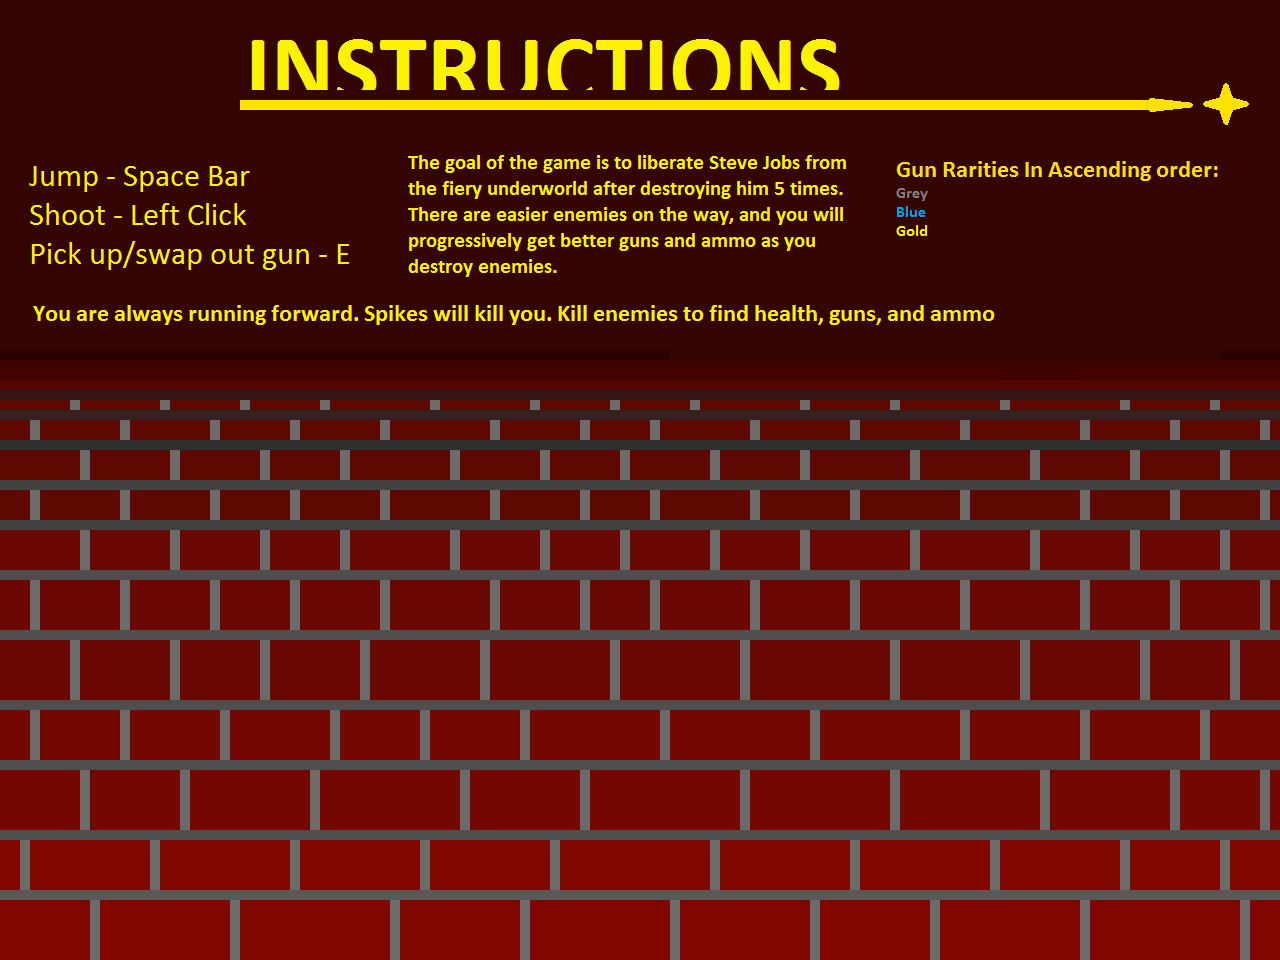
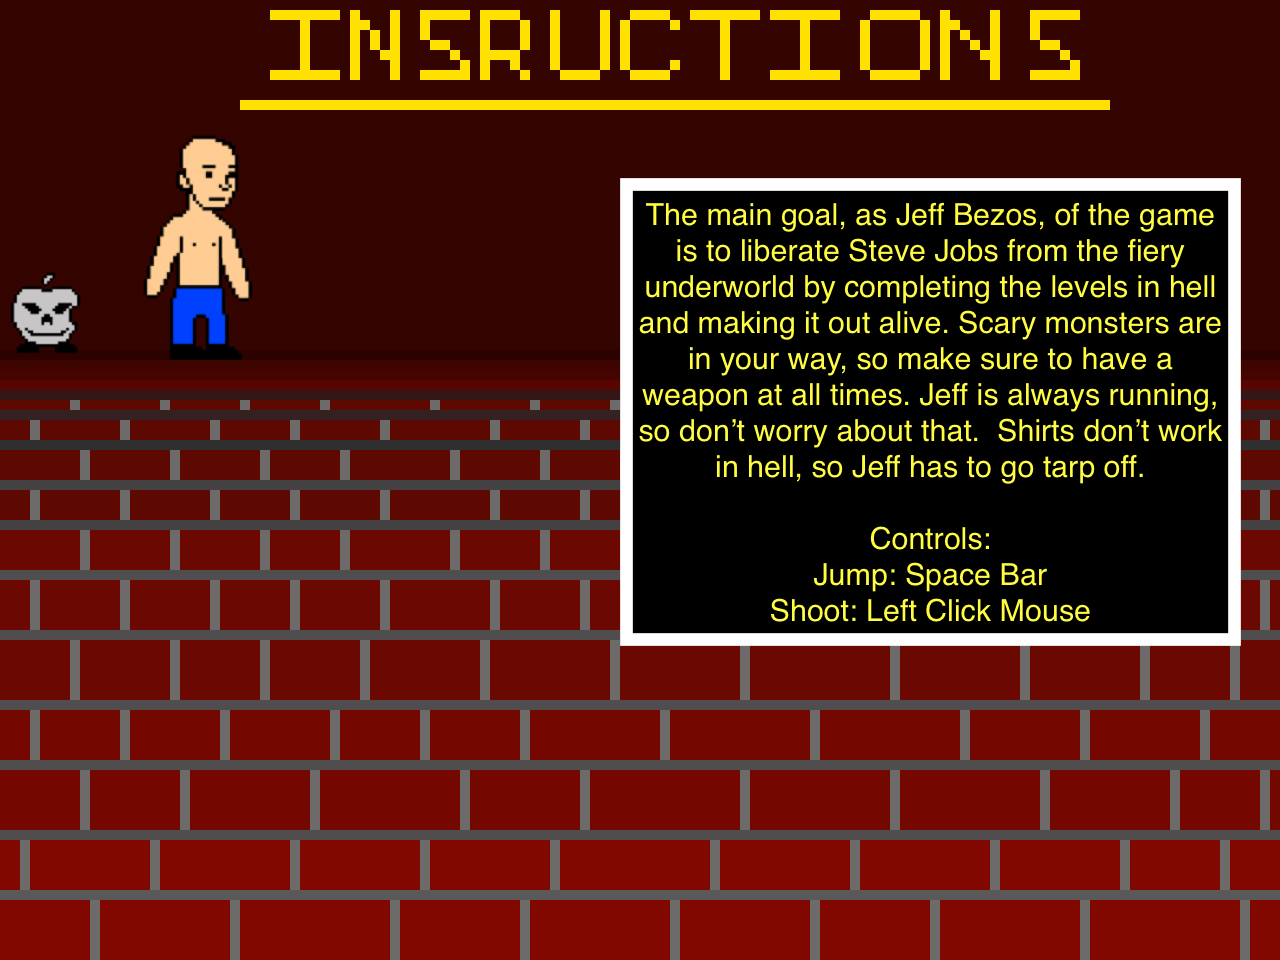
added game over screen, attempted instructions

Changed region(s): [[0.0, 0.125, 0.9688, 0.6875], [0.1875, 0.0, 0.8438, 0.0938], [0.875, 0.0938, 0.9688, 0.125]]

diff --git a/Screens.java b/Screens.java
@@ -46,11 +46,13 @@ public class Screens extends Canvas implements Runnable, MouseListener, KeyListe
    private static JFrame frame;
    private JPanel PlayPanel;
    private JPanel InstructionPanel;
+   private JPanel Panel;
    private BufferStrategy bs;
    private Graphics g;
    private Graphics2D g2d;
    private Texture texture;
    private Texture background;
+   private Texture gameover;
    private static Screens INSTANCE; 
    private int mouseX= MouseInfo.getPointerInfo().getLocation().x;
    private int mouseY= MouseInfo.getPointerInfo().getLocation().y;
@@ -109,6 +111,7 @@ public class Screens extends Canvas implements Runnable, MouseListener, KeyListe
       
       texture = new Texture("sniper blue");
       background = new Texture("background");
+      gameover = new Texture("gameover");
       for(int i = 0; i < floorMap.length; i++)
       {
          floorMap[i] = 0;
@@ -293,6 +296,7 @@ public class Screens extends Canvas implements Runnable, MouseListener, KeyListe
          if (jeff.health<=0){
             System.out.println("You died");
             alive = false;
+            gameover.render(g2d,0,0);
          }
       }
 
@@ -384,7 +388,6 @@ public class Screens extends Canvas implements Runnable, MouseListener, KeyListe
       System.out.println("Game Over");
       g.dispose();
       g2d.dispose();
-      System.exit(0);
    }
 
       
@@ -474,6 +477,19 @@ public class Screens extends Canvas implements Runnable, MouseListener, KeyListe
       
       
       }
+      
+      if(screenChoice == 2)
+      {
+         System.out.println("fuck u tim");
+         Panel = new JPanel(new GridLayout(1,1));
+         Drawing draw = new Drawing();
+         myJButton MenuButton = new myJButton(140,290,500,140,Panel,"Main Menu",this);
+         frame.remove(PlayPanel);
+         frame.remove(InstructionPanel);
+         frame.add(Panel);
+         frame.add(draw);
+       }
+
    }
    public void keyTyped(KeyEvent e) {
    
@@ -543,6 +559,11 @@ class Drawing extends JComponent
             Font titleFont = new Font("Serif", Font.ITALIC, 50);
             g.setFont(titleFont);
             g.drawString("Jeff Bezos' Adventurous Journey Extravaganza Party",120,140);
+         }
+         if(Screens.screenChoice == 2)
+         {
+            BufferedImage imga = ImageIO.read(new File("images/Insturctions.png"));
+            g.drawImage(imga,0,0,null);
          }
       }   
       catch(IOException e) 

diff --git a/myJButton.java b/myJButton.java
@@ -1,4 +1,4 @@
-import javax.swing.*;
+ import javax.swing.*;
 import java.util.*;
 import java.awt.*;
 import java.io.File;
@@ -56,6 +56,10 @@ public class myJButton extends JPanel implements ActionListener
       if(pressed.contains("Play"))
       {
          buttonScreen.changeScreen(1);
+      }
+      if(pressed.contains("Instructions"))
+      {
+         buttonScreen.changeScreen(2);
       }
    }
 }
